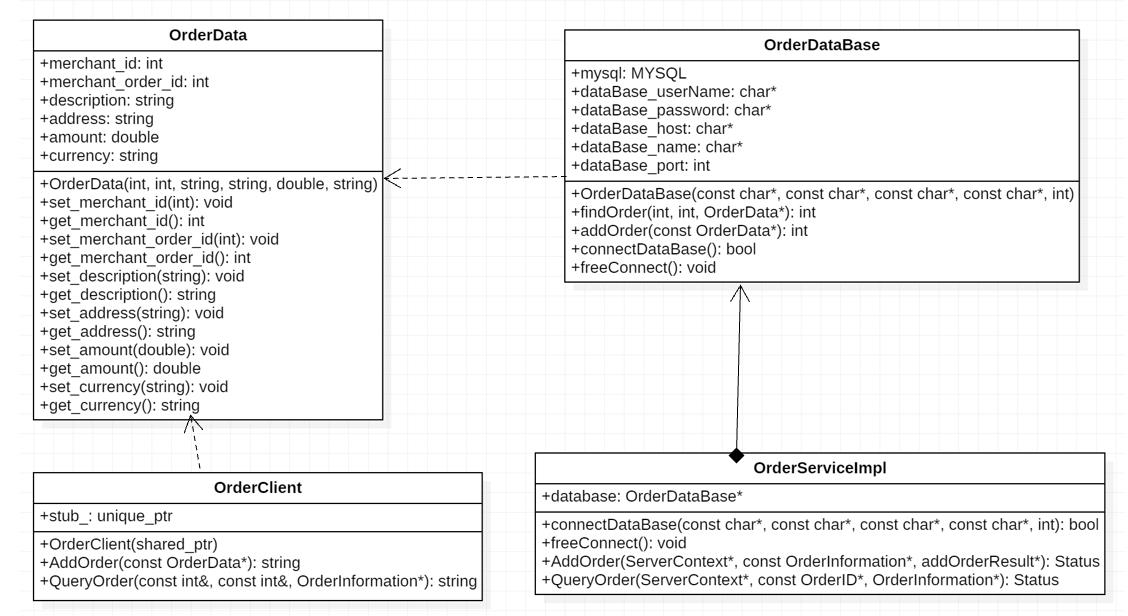
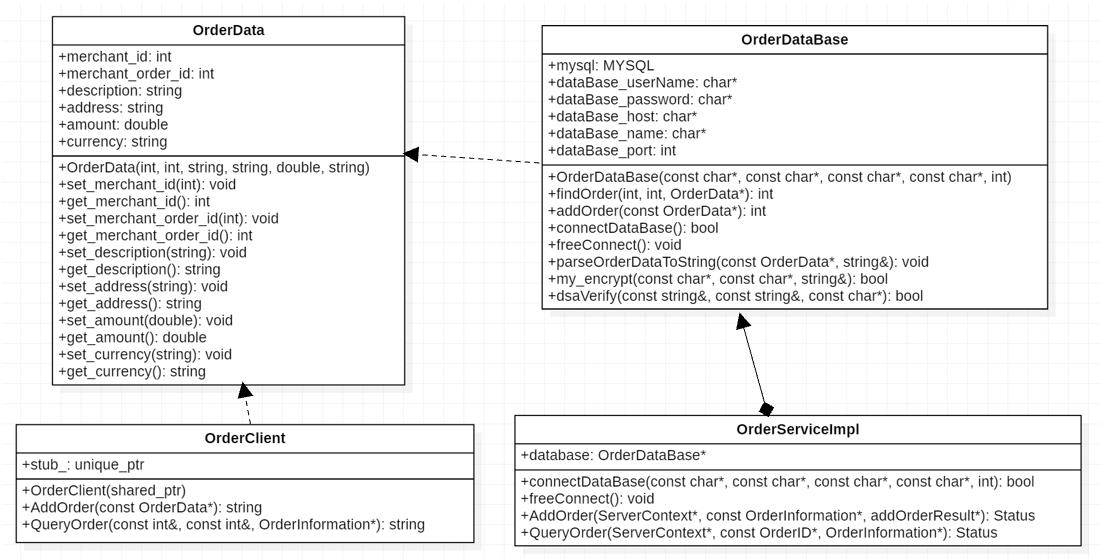
database sign

Changed region(s): [[0.0, 0.0304, 0.9573, 1.0], [0.4632, 0.6995, 0.9882, 1.0]]

diff --git a/order_data/order_database.cpp b/order_data/order_database.cpp
@@ -1,4 +1,9 @@
-#include"order_database.h"
+#ifdef __cplusplus
+extern "C" {
+#include <applink.c>
+}
+#endif
+#include"order_database.h"
 using namespace std;
 OrderDataBase::OrderDataBase(const char* userName, const char* password , const char* host , const char* name , unsigned int port)
 {
@@ -22,7 +27,7 @@ bool OrderDataBase::findOrder(int merchant_id, string merchant_order_id, OrderDa
 	MYSQL_RES* res;
 	MYSQL_ROW row;
 	
-	string query = "SELECT * from `order` Where merchant_id = " + to_string(merchant_id) + " AND merchant_order_id = \"" + merchant_order_id+"\"";
+	string query = "SELECT merchant_id,merchant_order_id,description,address,amount,currency,UNHEX(sign) from `order` Where merchant_id = " + to_string(merchant_id) + " AND merchant_order_id = \"" + merchant_order_id+"\"";
 	
 	mysql_query(&mysql, query.c_str());
 	
@@ -38,9 +43,17 @@ bool OrderDataBase::findOrder(int merchant_id, string merchant_order_id, OrderDa
 		reply->set_address(row[3]);
 		reply->set_amount(strtod(row[4], NULL));
 		reply->set_currency(row[5]);
-		result = true;
+		string sign_string = row[6];
+		
+		string verify_string;
+		parseOrderDataToString(reply, verify_string);
+		
+		if (dsaVerify(sign_string, verify_string, PUBLICKEY))
+		{
+			result = true;
+		}
 	}
-	
+
 	return result;
 }
 
@@ -49,6 +62,7 @@ bool OrderDataBase::addOrder(const OrderData* request)
 	
 	bool result = false;
 	OrderData findReply;
+	
 	result = findOrder(request->get_merchant_id(), request->get_merchant_order_id(), &findReply);
 	
 	if (result)
@@ -74,15 +88,32 @@ bool OrderDataBase::addOrder(const OrderData* request)
 		mysql_real_escape_string(&mysql, description, (request->get_description()).c_str(), (request->get_description()).length());
 		mysql_real_escape_string(&mysql, address, (request->get_address()).c_str(), (request->get_address()).length());
 		mysql_real_escape_string(&mysql, currency, (request->get_currency()).c_str(), (request->get_currency()).length());
+		
+
+		string input_string;
+		string sign_string;
+		parseOrderDataToString(request, input_string);
+		bool encrypt_result=my_encrypt(input_string.c_str(), PUBLICKEY, sign_string);
+		
+		if (!encrypt_result) 
+		{
+			return false;
+		}
+		
+		
+		
 
 		/*string query = "INSERT INTO `order` (merchant_id,merchant_order_id,description,address,amount,currency) VALUES ("+to_string(request->get_merchant_id())+","+to_string(request->get_merchant_order_id())+",'"+request->get_description()+"','"+request->get_address()+"',"+to_string(request->get_amount())+",'"+request->get_currency()+"')";
 		*/
-		string query = "INSERT INTO `order` (merchant_id,merchant_order_id,description,address,amount,currency) VALUES (" + to_string(request->get_merchant_id()) + ",'" + request->get_merchant_order_id() + "','" + description + "','" + address + "'," + to_string(request->get_amount()) + ",'" + currency + "')";
+		
+		string query = "INSERT INTO `order` (merchant_id,merchant_order_id,description,address,amount,currency,sign) VALUES (" + to_string(request->get_merchant_id()) + ",'" + request->get_merchant_order_id() + "','" + description + "','" + address + "'," + to_string(request->get_amount()) + ",'" + currency + "',HEX('"+ sign_string +"'))";
 
 		bool flag = mysql_query(&mysql, query.c_str());
+		
 		if (flag == 0)
 		{
 			result = true;
+			
 		}
 
 	}
@@ -110,3 +141,47 @@ void OrderDataBase::freeConnect()
 	//关闭数据库连接
 	mysql_close(&mysql);
 }
+
+void OrderDataBase::parseOrderDataToString(const OrderData* data,string & result)
+{
+	result = "merchant_id="+to_string(data->get_merchant_id())+"&merchant_order_id="+data->get_merchant_order_id();
+	result = result + "&description=" + data->get_description() + "&address=" + data->get_address();
+	result = result + "&amount=" + to_string(data->get_amount()) + "&currency=" + data->get_currency();
+	return ;
+}
+
+bool OrderDataBase::my_encrypt(const char* str,const char* path_key,string& sign_string) {
+	char* p_en;
+	RSA* p_rsa;
+	FILE* file;
+	int flen, rsa_len;
+	if ((file = fopen(path_key, "r")) == NULL) {
+		perror("open key file error");
+		return false;
+	}
+	if ((p_rsa = PEM_read_RSA_PUBKEY(file, NULL, NULL, NULL)) == NULL) {
+		//if((p_rsa=PEM_read_RSAPublicKey(file,NULL,NULL,NULL))==NULL){   换成这句死活通不过，无论是否将公钥分离源文件
+		ERR_print_errors_fp(stdout);
+		return false;
+	}
+	flen = strlen(str);
+	rsa_len = RSA_size(p_rsa);
+	p_en = (char*)malloc(rsa_len + 1);
+	memset(p_en, 0, rsa_len + 1);
+	if (RSA_public_encrypt(rsa_len, (unsigned char*)str, (unsigned char*)p_en, p_rsa, RSA_NO_PADDING) < 0) {
+		return NULL;
+	}
+	RSA_free(p_rsa);
+	fclose(file);
+	sign_string = p_en;
+	return true;
+}
+
+bool OrderDataBase::dsaVerify(const string& sign_string, const string& verify_string,const char* path_key)
+{
+	string rsa_string = "";
+	my_encrypt(verify_string.c_str(), path_key,rsa_string);
+	return sign_string == rsa_string;
+}
+
+
